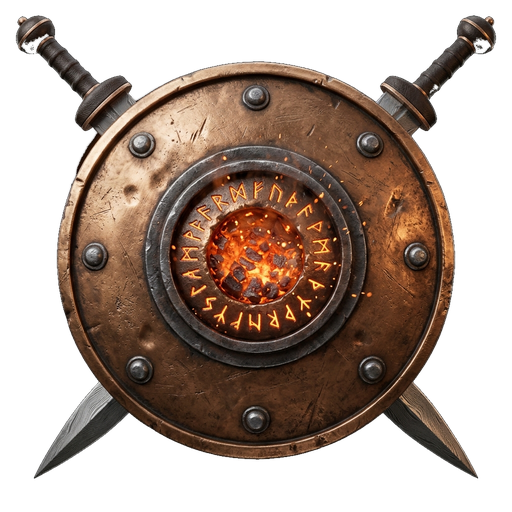
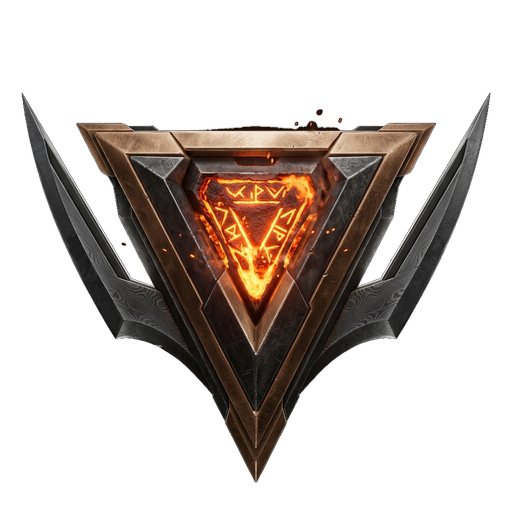
feat(esports): elevate L01/L10 to Apex/Valorant standards, abolish circular frames, scale crests to 88px, and unlock 10-tier roadmap

diff --git a/src/components/shared/BespokeHeraldry.jsx b/src/components/shared/BespokeHeraldry.jsx
@@ -14,72 +14,39 @@ export const HeraldryBronze = ({ size = 72, isLocked = false }) => (
     viewBox="0 0 100 100"
     fill="none"
     xmlns="http://www.w3.org/2000/svg"
-    style={{ filter: isLocked ? 'grayscale(0.7) brightness(0.7)' : 'drop-shadow(0 6px 14px rgba(205, 127, 50, 0.45))' }}
+    style={{ filter: isLocked ? 'grayscale(0.7) brightness(0.7)' : 'drop-shadow(0 6px 16px rgba(205, 127, 50, 0.55))' }}
   >
     <defs>
-      <linearGradient id="bronzeRim" x1="0%" y1="0%" x2="100%" y2="100%">
+      <linearGradient id="bronzeChevronA" x1="0%" y1="0%" x2="100%" y2="100%">
         <stop offset="0%" stopColor="#F5A962" />
-        <stop offset="25%" stopColor="#CD7F32" />
-        <stop offset="50%" stopColor="#8C4A15" />
-        <stop offset="75%" stopColor="#E2924E" />
-        <stop offset="100%" stopColor="#4A2609" />
-      </linearGradient>
-      <radialGradient id="bronzeCore" cx="40%" cy="35%" r="65%">
-        <stop offset="0%" stopColor="#E2924E" />
         <stop offset="40%" stopColor="#CD7F32" />
-        <stop offset="75%" stopColor="#5C2E0B" />
-        <stop offset="100%" stopColor="#2D1504" />
-      </radialGradient>
-      <linearGradient id="bronzeIron" x1="0%" y1="0%" x2="100%" y2="100%">
+        <stop offset="80%" stopColor="#7A3E10" />
+        <stop offset="100%" stopColor="#3E1A04" />
+      </linearGradient>
+      <linearGradient id="damascusSteel" x1="0%" y1="0%" x2="100%" y2="100%">
         <stop offset="0%" stopColor="#78716C" />
-        <stop offset="50%" stopColor="#44403C" />
-        <stop offset="100%" stopColor="#1C1917" />
+        <stop offset="50%" stopColor="#292524" />
+        <stop offset="100%" stopColor="#0C0A09" />
       </linearGradient>
-      <linearGradient id="bronzeGold" x1="0%" y1="0%" x2="100%" y2="100%">
-        <stop offset="0%" stopColor="#FFFBEB" />
-        <stop offset="50%" stopColor="#FDE68A" />
-        <stop offset="100%" stopColor="#D97706" />
-      </linearGradient>
+      <radialGradient id="moltenBronzeCore" cx="50%" cy="40%" r="60%">
+        <stop offset="0%" stopColor="#FEF08A" />
+        <stop offset="35%" stopColor="#F97316" />
+        <stop offset="70%" stopColor="#C2410C" />
+        <stop offset="100%" stopColor="#431407" />
+      </radialGradient>
     </defs>
 
-    {/* Crossed Gladius Blades Behind Shield */}
-    <path d="M18 18 L34 34 M18 18 L22 14 L36 30 L32 34 Z" fill="url(#bronzeIron)" stroke="#A8A29E" strokeWidth="0.5" />
-    <path d="M82 18 L66 34 M82 18 L78 14 L64 30 L68 34 Z" fill="url(#bronzeIron)" stroke="#A8A29E" strokeWidth="0.5" />
-    <path d="M24 82 L38 68 M24 82 L20 78 L34 64 L38 68 Z" fill="url(#bronzeIron)" stroke="#A8A29E" strokeWidth="0.5" />
-    <path d="M76 82 L62 68 M76 82 L80 78 L66 64 L62 68 Z" fill="url(#bronzeIron)" stroke="#A8A29E" strokeWidth="0.5" />
+    {/* Dual Upward Combat Blades */}
+    <polygon points="26,18 36,36 30,50 18,30" fill="url(#damascusSteel)" stroke="#F5A962" strokeWidth="0.8" />
+    <polygon points="74,18 64,36 70,50 82,30" fill="url(#damascusSteel)" stroke="#F5A962" strokeWidth="0.8" />
 
-    {/* Outer Heavy Studded Bronze Buckler Rim */}
-    <circle cx="50" cy="50" r="42" fill="url(#bronzeRim)" stroke="#FFE3CC" strokeWidth="1" />
-    <circle cx="50" cy="50" r="38" fill="url(#bronzeIron)" stroke="#292524" strokeWidth="1.5" />
-    <circle cx="50" cy="50" r="32" fill="url(#bronzeCore)" stroke="#F5A962" strokeWidth="1.2" />
+    {/* Heavy Angular V-Chevron Outer Armor Plate */}
+    <polygon points="50,16 82,32 50,88 18,32" fill="url(#bronzeChevronA)" stroke="#FFE3CC" strokeWidth="1.5" />
+    <polygon points="50,24 74,38 50,78 26,38" fill="url(#damascusSteel)" stroke="#CD7F32" strokeWidth="1" />
 
-    {/* 8 Steel Rivet Studs */}
-    {[0, 45, 90, 135, 180, 225, 270, 315].map((angle, i) => {
-      const rad = (angle * Math.PI) / 180
-      const cx = 50 + 35 * Math.cos(rad)
-      const cy = 50 + 35 * Math.sin(rad)
-      return (
-        <circle
-          key={i}
-          cx={cx}
-          cy={cy}
-          r="2.4"
-          fill="#E7E5E4"
-          stroke="#44403C"
-          strokeWidth="0.75"
-        />
-      )
-    })}
-
-    {/* Inner Heraldic Spike Star Emblem */}
-    <path
-      d="M50 26 L53 43 L70 43 L56 53 L61 70 L50 59 L39 70 L44 53 L30 43 L47 43 Z"
-      fill="url(#bronzeGold)"
-      stroke="#7A3E10"
-      strokeWidth="1"
-      filter="drop-shadow(0 2px 4px rgba(0,0,0,0.6))"
-    />
-    <circle cx="50" cy="50" r="4.5" fill="#FFFBEB" stroke="#B45309" strokeWidth="1" />
+    {/* Incandescent Molten Magma Core */}
+    <polygon points="50,30 66,42 50,68 34,42" fill="url(#moltenBronzeCore)" stroke="#FDE68A" strokeWidth="1.2" filter="drop-shadow(0 0 10px #EA580C)" />
+    <circle cx="50" cy="46" r="4.5" fill="#FFFBEB" />
   </svg>
 )
 
@@ -597,32 +564,41 @@ export const HeraldryMythic = ({ size = 72, isLocked = false }) => (
     style={{
       filter: isLocked
         ? 'grayscale(0.7) brightness(0.7)'
-        : 'drop-shadow(0 0 24px rgba(16, 185, 129, 0.9)) drop-shadow(0 8px 24px rgba(0, 0, 0, 0.9))',
+        : 'drop-shadow(0 0 24px rgba(0, 245, 255, 0.9)) drop-shadow(0 8px 24px rgba(0, 0, 0, 0.9))',
     }}
   >
     <defs>
-      <linearGradient id="mythicRainbow" x1="0%" y1="0%" x2="100%" y2="100%">
-        <stop offset="0%" stopColor="#00F5FF" />
-        <stop offset="33%" stopColor="#10B981" />
-        <stop offset="66%" stopColor="#FBBF24" />
-        <stop offset="100%" stopColor="#C084FC" />
+      <linearGradient id="mythicGoldWings" x1="0%" y1="0%" x2="100%" y2="100%">
+        <stop offset="0%" stopColor="#FFFBEB" />
+        <stop offset="35%" stopColor="#FEF08A" />
+        <stop offset="70%" stopColor="#F59E0B" />
+        <stop offset="100%" stopColor="#78350F" />
       </linearGradient>
-      <radialGradient id="singularityCore" cx="50%" cy="50%" r="50%">
+      <linearGradient id="radiantDiamondBlade" x1="0%" y1="0%" x2="100%" y2="100%">
         <stop offset="0%" stopColor="#FFFFFF" />
-        <stop offset="40%" stopColor="#34D399" />
-        <stop offset="80%" stopColor="#065F46" />
-        <stop offset="100%" stopColor="#022C22" />
+        <stop offset="50%" stopColor="#A5F3FC" />
+        <stop offset="100%" stopColor="#0284C7" />
+      </linearGradient>
+      <radialGradient id="tachyonApexCore" cx="50%" cy="50%" r="50%">
+        <stop offset="0%" stopColor="#FFFFFF" />
+        <stop offset="30%" stopColor="#E0F2FE" />
+        <stop offset="65%" stopColor="#00F5FF" />
+        <stop offset="100%" stopColor="#0369A1" />
       </radialGradient>
     </defs>
-    {/* Tachyon Wings & Halo */}
-    <circle cx="50" cy="50" r="42" fill="none" stroke="url(#mythicRainbow)" strokeWidth="1.5" strokeDasharray="4 2" />
-    <path d="M12 45 C20 30, 36 26, 44 32 C38 42, 28 52, 12 45 Z" fill="url(#mythicRainbow)" opacity="0.9" />
-    <path d="M88 45 C80 30, 64 26, 56 32 C62 42, 72 52, 88 45 Z" fill="url(#mythicRainbow)" opacity="0.9" />
-    {/* Floating Tripartite Crown */}
-    <path d="M30 24 L38 12 L50 20 L62 12 L70 24 L50 28 Z" fill="#FDE047" stroke="#FFFFFF" strokeWidth="1" />
-    {/* Singularity Crystal */}
-    <polygon points="50,30 68,50 50,70 32,50" fill="url(#singularityCore)" stroke="#FFFFFF" strokeWidth="1.8" />
-    <circle cx="50" cy="50" r="5" fill="#FFFFFF" />
+    {/* Swept 24K Gold & Diamond Wings */}
+    <path d="M10 40 L34 26 L28 58 L14 52 Z" fill="url(#mythicGoldWings)" stroke="#FFFFFF" strokeWidth="0.8" />
+    <path d="M90 40 L66 26 L72 58 L86 52 Z" fill="url(#mythicGoldWings)" stroke="#FFFFFF" strokeWidth="0.8" />
+    <path d="M18 52 L36 40 L30 70 L20 64 Z" fill="url(#radiantDiamondBlade)" stroke="#A5F3FC" strokeWidth="0.8" />
+    <path d="M82 52 L64 40 L70 70 L80 64 Z" fill="url(#radiantDiamondBlade)" stroke="#A5F3FC" strokeWidth="0.8" />
+
+    {/* Hovering Celestial Tri-Crown */}
+    <polygon points="50,12 62,24 50,22 38,24" fill="#FFFFFF" stroke="#FEF08A" strokeWidth="1" />
+    <circle cx="50" cy="16" r="3" fill="#00F5FF" />
+
+    {/* Radiant Central Diamond Singularity */}
+    <polygon points="50,24 72,48 50,86 28,48" fill="url(#tachyonApexCore)" stroke="#FFFFFF" strokeWidth="1.8" filter="drop-shadow(0 0 16px #00F5FF)" />
+    <polygon points="50,30 64,48 50,56 36,48" fill="#FFFFFF" opacity="0.9" />
   </svg>
 )
 

diff --git a/src/components/LevelRoadmap/LevelRoadmap.module.css b/src/components/LevelRoadmap/LevelRoadmap.module.css
@@ -275,18 +275,18 @@
 
 /* Node Card */
 .nodeCard {
-  width: 168px;
+  width: 178px;
   background: linear-gradient(145deg, rgba(16, 18, 28, 0.88) 0%, rgba(9, 11, 18, 0.96) 100%);
   backdrop-filter: blur(24px);
   -webkit-backdrop-filter: blur(24px);
   border: 1px solid rgba(255, 255, 255, 0.08);
   border-radius: 18px;
-  padding: 13px 10px 13px;
+  padding: 14px 10px 14px;
   display: flex;
   flex-direction: column;
   align-items: center;
   text-align: center;
-  gap: 7px;
+  gap: 8px;
   position: relative;
   z-index: 2;
   transition: all 0.24s cubic-bezier(0.16, 1, 0.3, 1);
@@ -409,85 +409,77 @@
   box-shadow: 0 0 24px rgba(16, 185, 129, 0.25);
 }
 
-/* Standardized Circular Medallion Pedestal */
+/* Freeform Dimensional Heraldry Stage (No Circular Dishes or Clipart Rings) */
 .pedestalStage {
   position: relative;
-  width: 64px;
-  height: 64px;
-  border-radius: 50%;
+  width: 96px;
+  height: 96px;
   display: flex;
   align-items: center;
   justify-content: center;
-  background: radial-gradient(circle at 40% 35%, rgba(255, 255, 255, 0.08) 0%, rgba(18, 21, 32, 0.75) 65%, rgba(10, 12, 18, 0.95) 100%);
-  border: 1px solid rgba(255, 255, 255, 0.08);
-  box-shadow:
-    0 4px 16px rgba(0, 0, 0, 0.45),
-    inset 0 1px 0 rgba(255, 255, 255, 0.14),
-    inset 0 0 12px rgba(0, 0, 0, 0.4);
+  background: transparent;
+  border: none;
+  box-shadow: none;
   margin: 2px 0 2px;
-  transition: transform 0.25s ease, border-color 0.25s ease, box-shadow 0.25s ease;
+  transition: transform 0.25s cubic-bezier(0.34, 1.56, 0.64, 1);
 }
 
 .pedestalStage:hover {
-  transform: scale(1.05);
+  transform: scale(1.08) translateY(-2px);
 }
 
 .pedestalAura {
   position: absolute;
-  inset: -4px;
+  inset: -12px;
   border-radius: 50%;
   pointer-events: none;
   opacity: 0.6;
-  filter: blur(8px);
+  filter: blur(18px);
 }
 
 .pedestalCompleted {
-  border-color: rgba(0, 230, 118, 0.28);
-  box-shadow:
-    0 4px 16px rgba(0, 0, 0, 0.45),
-    inset 0 1px 0 rgba(255, 255, 255, 0.2),
-    inset 0 0 10px rgba(0, 230, 118, 0.1);
+  border: none;
+  box-shadow: none;
 }
 
 .pedestalCompleted .pedestalAura {
-  background: radial-gradient(circle, rgba(0, 230, 118, 0.25) 0%, transparent 70%);
+  background: radial-gradient(circle, rgba(0, 230, 118, 0.32) 0%, transparent 72%);
 }
 
 .pedestalCurrent {
-  border-color: rgba(251, 191, 36, 0.55);
-  box-shadow:
-    0 6px 20px rgba(251, 191, 36, 0.25),
-    inset 0 1px 0 rgba(255, 255, 255, 0.35),
-    inset 0 0 16px rgba(251, 191, 36, 0.22);
-  animation: activePedestalGlow 2.4s infinite ease-in-out;
+  border: none;
+  box-shadow: none;
 }
 
 .pedestalCurrent .pedestalAura {
-  background: radial-gradient(circle, rgba(251, 191, 36, 0.38) 0%, transparent 70%);
-  opacity: 0.85;
+  background: radial-gradient(circle, rgba(251, 191, 36, 0.48) 0%, transparent 70%);
+  opacity: 0.9;
+  animation: activePedestalGlow 2.4s infinite ease-in-out;
 }
 
 .pedestalNext {
-  border-color: rgba(192, 132, 252, 0.45);
-  box-shadow:
-    0 6px 18px rgba(192, 132, 252, 0.2),
-    inset 0 1px 0 rgba(255, 255, 255, 0.25),
-    inset 0 0 14px rgba(192, 132, 252, 0.18);
+  border: none;
+  box-shadow: none;
 }
 
 .pedestalNext .pedestalAura {
-  background: radial-gradient(circle, rgba(192, 132, 252, 0.3) 0%, transparent 70%);
+  background: radial-gradient(circle, rgba(192, 132, 252, 0.38) 0%, transparent 70%);
 }
 
 .pedestalLocked {
-  border-color: rgba(255, 255, 255, 0.08);
-  background: radial-gradient(circle at 40% 35%, rgba(255, 255, 255, 0.05) 0%, rgba(16, 12, 28, 0.8) 65%, rgba(8, 6, 16, 0.95) 100%);
-  box-shadow: 0 4px 14px rgba(0, 0, 0, 0.45), inset 0 1px 0 rgba(255, 255, 255, 0.08);
+  border: none;
+  background: transparent;
+  box-shadow: none;
+}
+
+.pedestalLocked .pedestalAura {
+  background: radial-gradient(circle, rgba(255, 255, 255, 0.08) 0%, transparent 70%);
+  opacity: 0.3;
 }
 
 .pedestalLocked:hover {
-  border-color: rgba(255, 255, 255, 0.18);
-  box-shadow: 0 6px 18px rgba(0, 0, 0, 0.6), inset 0 1px 0 rgba(255, 255, 255, 0.15);
+  border: none;
+  box-shadow: none;
 }
 
 @keyframes activePedestalGlow {

diff --git a/src/components/LevelRoadmap/LevelRoadmap.jsx b/src/components/LevelRoadmap/LevelRoadmap.jsx
@@ -83,8 +83,14 @@ const formatCardReward = (lvl) => {
   if (lvl.level === 7) {
     return '100 SVEs Safe Vault'
   }
+  if (lvl.level === 8) {
+    return '+1,000 VEs'
+  }
+  if (lvl.level === 9) {
+    return '+50 Gems'
+  }
   if (lvl.level === 10) {
-    return 'Tier 1 Safe Vault'
+    return '+5,000 VEs • +100 Gems'
   }
 
   if (amountStr.includes('VEs') || amountStr.includes('Gems') || amountStr.includes('Safe') || amountStr.includes('SVEs')) {
@@ -99,8 +105,8 @@ const formatCardReward = (lvl) => {
 
 const LevelRoadmap = ({ data }) => {
   const currentLvl = data?.currentLevel || 5
-  // Exactly all 7 levels as defined in VELoop task requirements
-  const allLevels = (data?.allLevels || []).slice(0, 7)
+  // All 10 canonical levels from levelData.js
+  const allLevels = data?.allLevels || []
   const currentXP = data?.currentXP || 6420
   const dailyVelocity = data?.dailyVelocity || 215
   const streakDays = data?.streakDays || 7
@@ -241,10 +247,10 @@ const LevelRoadmap = ({ data }) => {
             <span>PROGRESSION PIPELINE</span>
           </div>
           <h2 id="roadmap-heading" className="section-title">
-            Level Journey (All 7 Levels)
+            Level Journey (All 10 Sovereign Tiers)
           </h2>
           <p className="section-subtitle">
-            Visual 7-tier milestone progression — click any tier node to inspect criteria, perks, and reward vaults.
+            Visual 10-tier esports milestone progression — click any tier node to inspect criteria, perks, and reward vaults.
           </p>
         </div>
 
@@ -410,7 +416,7 @@ const LevelRoadmap = ({ data }) => {
                       <div className={styles.pedestalAura} aria-hidden="true" />
                       <TierMedallion
                         level={lvl.level}
-                        size={52}
+                        size={88}
                         status={nodeCompleted ? 'completed' : nodeCurrent ? 'current' : nodeNext ? 'next' : 'locked'}
                         showStatusCorner={false}
                       />

diff --git a/src/components/shared/TierMedallion.jsx b/src/components/shared/TierMedallion.jsx
@@ -9,7 +9,7 @@ export const TIER_CONFIGS = {
   1: {
     level: 1,
     name: 'Bronze Initiate',
-    silhouette: 'Gladiator Vanguard Buckler with 8 Steel Studs & Crossed Gladius Swords',
+    silhouette: 'Angular Damascus Bronze Chevron Vanguard with Razor Blades & Molten Core',
     primary: '#CD7F32',
     secondary: '#7A3E10',
     light: '#F5A962',
@@ -126,12 +126,12 @@ export const TIER_CONFIGS = {
   10: {
     level: 10,
     name: 'Mythic Legend',
-    silhouette: 'Transcendent Cosmic Relic with Iridescent Phoenix Wings & Rainbow Aurora',
-    primary: '#10B981',
-    secondary: '#A855F7',
-    light: '#FBBF24',
-    highlight: '#FFFFFF',
-    glow: 'rgba(16, 185, 129, 0.90)',
+    silhouette: 'Radiant Apex Mythic Relic with 24K Celestial Gold, Diamond Spires & Tachyon Rays',
+    primary: '#FBBF24',
+    secondary: '#00F5FF',
+    light: '#FFFFFF',
+    highlight: '#A5F3FC',
+    glow: 'rgba(0, 245, 255, 0.85)',
     bannerText: 'MYTHIC 10',
     rarity: 'Mythic',
     assetUrl: '/assets/ranks/rank-lvl-10.png',
